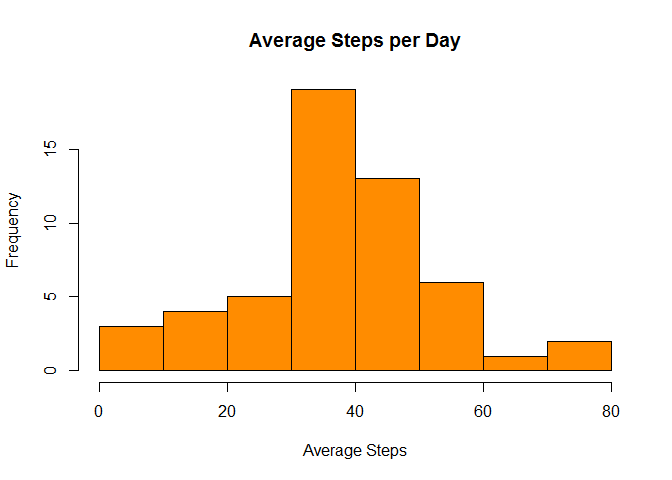
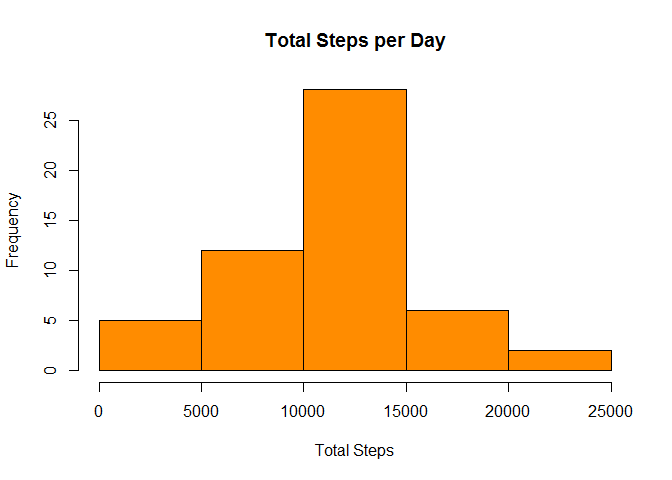
Up to question 3 now....

diff --git a/PA1_template.html b/PA1_template.html
@@ -55,29 +55,49 @@ if (window.hljs && document.readyState && document.readyState === "complete") {
 
 <div id="reproducible-research-peer-assessment-1" class="section level1">
 <h1>Reproducible Research: Peer Assessment 1</h1>
-<div id="loading-and-preprocessing-the-data" class="section level2">
-<h2>Loading and preprocessing the data</h2>
-<p>Unzip “activity.zip” file–assumed to be on the working directory read file, gather complete cases and convert dates from strings into date objects:</p>
+<div id="loading-and-preprocessing-the-data" class="section level3">
+<h3>Loading and preprocessing the data</h3>
+<ul>
+<li>Unzip “activity.zip” file–assumed to be on the working directory read file</li>
+<li>gather complete cases and convert dates from strings into date objects:</li>
+</ul>
 <pre class="r"><code> file &lt;- unzip(&quot;activity.zip&quot;)
         steps &lt;- read.csv(file)
         steps &lt;- steps[complete.cases(steps),]
         steps$date&lt;-as.Date(steps$date)</code></pre>
 </div>
 </div>
-<div id="what-is-mean-total-number-of-steps-taken-per-day" class="section level1">
-<h1>What is mean total number of steps taken per day?</h1>
-</div>
-<div id="generate-histogram-of-steps-and-calculate-mean-iand-median-steps-per-day" class="section level1">
-<h1>generate histogram of steps and calculate mean Iand median steps per day</h1>
-<pre class="r"><code>        daily.steps &lt;-aggregate(steps~date,steps,mean)[,2]
-        hist(daily.steps, main = &quot;Average Steps per Day&quot;, xlab = &quot;Average Steps&quot;, col=&quot;darkorange&quot;)</code></pre>
[1 lines of base64/hex data omitted]
+<div id="what-is-the-mean-total-number-of-steps-taken-per-day" class="section level1">
+<h1>What is the mean total number of steps taken per day?</h1>
+<div id="generate-histogram-of-steps-and-calculate-mean-and-median-steps-per-day" class="section level3">
+<h3>Generate histogram of steps and calculate mean and median steps per day</h3>
+<ul>
+<li>Aggregate steps by day</li>
+<li>Generate histogram</li>
+<li>Calculate <strong>mean</strong> and <strong>median</strong> values</li>
+</ul>
+<pre class="r"><code>        daily.steps &lt;-aggregate(steps~date,steps,sum)[,2]
+        dates &lt;-aggregate(steps~date,steps,sum)[,1]
+        hist(daily.steps, main = &quot;Total Steps per Day&quot;, xlab = &quot;Total Steps&quot;, col=&quot;darkorange&quot;)</code></pre>
[1 lines of base64/hex data omitted]
 <pre class="r"><code>        mean(daily.steps)</code></pre>
-<pre><code>## [1] 37.38</code></pre>
+<pre><code>## [1] 10766</code></pre>
 <pre class="r"><code>        median(daily.steps)</code></pre>
-<pre><code>## [1] 37.38</code></pre>
+<pre><code>## [1] 10765</code></pre>
+</div>
 <div id="what-is-the-average-daily-activity-pattern" class="section level2">
 <h2>What is the average daily activity pattern?</h2>
+<ul>
+<li>Make a time series plot (i.e. type = “l”) of the 5-minute interval (x-axis) and the average number of steps taken, averaged across all days (y-axis)</li>
+</ul>
+<pre class="r"><code>        daily.pattern&lt;-aggregate(steps~interval,steps,mean)
+        plot(daily.pattern$interval,daily.pattern$steps, type=&quot;l&quot;, main= &quot;Daily Activity Pattern&quot;, xlab=&quot;5-minute activity interval&quot;, ylab=&quot;Average number of steps&quot;,col = &quot;darkorange&quot;)</code></pre>
[1 lines of base64/hex data omitted]
+<ul>
+<li>Which 5-minute interval, on average across all the days in the dataset, contains the maximum number of steps?</li>
+</ul>
+<pre class="r"><code>        daily.pattern[daily.pattern$steps==max(daily.pattern$steps),]$interval</code></pre>
+<pre><code>## [1] 835</code></pre>
 </div>
 <div id="imputing-missing-values" class="section level2">
 <h2>Imputing missing values</h2>

diff --git a/PA1_template.md b/PA1_template.md
@@ -1,11 +1,12 @@
-# Reproducible Research: Peer Assessment 1
+Reproducible Research: Peer Assessment 1
+======================================================================
 
+### Loading and preprocessing the data
 
-## Loading and preprocessing the data
-
-
-Unzip "activity.zip" file--assumed to be on the working directory
-read file, gather complete cases and convert dates from strings into 
+ 
+- Unzip "activity.zip" file--assumed to be on the working directory
+read file
+- gather complete cases and convert dates from strings into 
 date objects:
 
 
@@ -16,13 +17,18 @@ date objects:
         steps$date<-as.Date(steps$date)
 ```
  
-#What is mean total number of steps taken per day?
-#generate histogram of steps and calculate mean Iand median steps per day
+#What is the mean total number of steps taken per day?
+###Generate histogram of steps and calculate mean and median steps per day
+
+- Aggregate steps by day
+- Generate histogram
+- Calculate **mean** and **median** values
 
 
 ```r
-        daily.steps <-aggregate(steps~date,steps,mean)[,2]
-        hist(daily.steps, main = "Average Steps per Day", xlab = "Average Steps", col="darkorange")
+        daily.steps <-aggregate(steps~date,steps,sum)[,2]
+        dates <-aggregate(steps~date,steps,sum)[,1]
+        hist(daily.steps, main = "Total Steps per Day", xlab = "Total Steps", col="darkorange")
 ```
 
 ![plot of chunk unnamed-chunk-2](./PA1_template_files/figure-html/unnamed-chunk-2.png) 
@@ -32,7 +38,7 @@ date objects:
 ```
 
 ```
-## [1] 37.38
+## [1] 10766
 ```
 
 ```r
@@ -40,12 +46,33 @@ date objects:
 ```
 
 ```
-## [1] 37.38
+## [1] 10765
 ```
 
 ## What is the average daily activity pattern?
 
+- Make a time series plot (i.e. type = "l") of the 5-minute interval (x-axis) and the average number of steps taken, averaged across all days (y-axis)
 
+
+
+
+```r
+        daily.pattern<-aggregate(steps~interval,steps,mean)
+        plot(daily.pattern$interval,daily.pattern$steps, type="l", main= "Daily Activity Pattern", xlab="5-minute activity interval", ylab="Average number of steps",col = "darkorange")
+```
+
+![plot of chunk unnamed-chunk-3](./PA1_template_files/figure-html/unnamed-chunk-3.png) 
+
+- Which 5-minute interval, on average across all the days in the dataset, contains the maximum number of steps?
+
+
+```r
+        daily.pattern[daily.pattern$steps==max(daily.pattern$steps),]$interval
+```
+
+```
+## [1] 835
+```
 
 ## Imputing missing values
 
